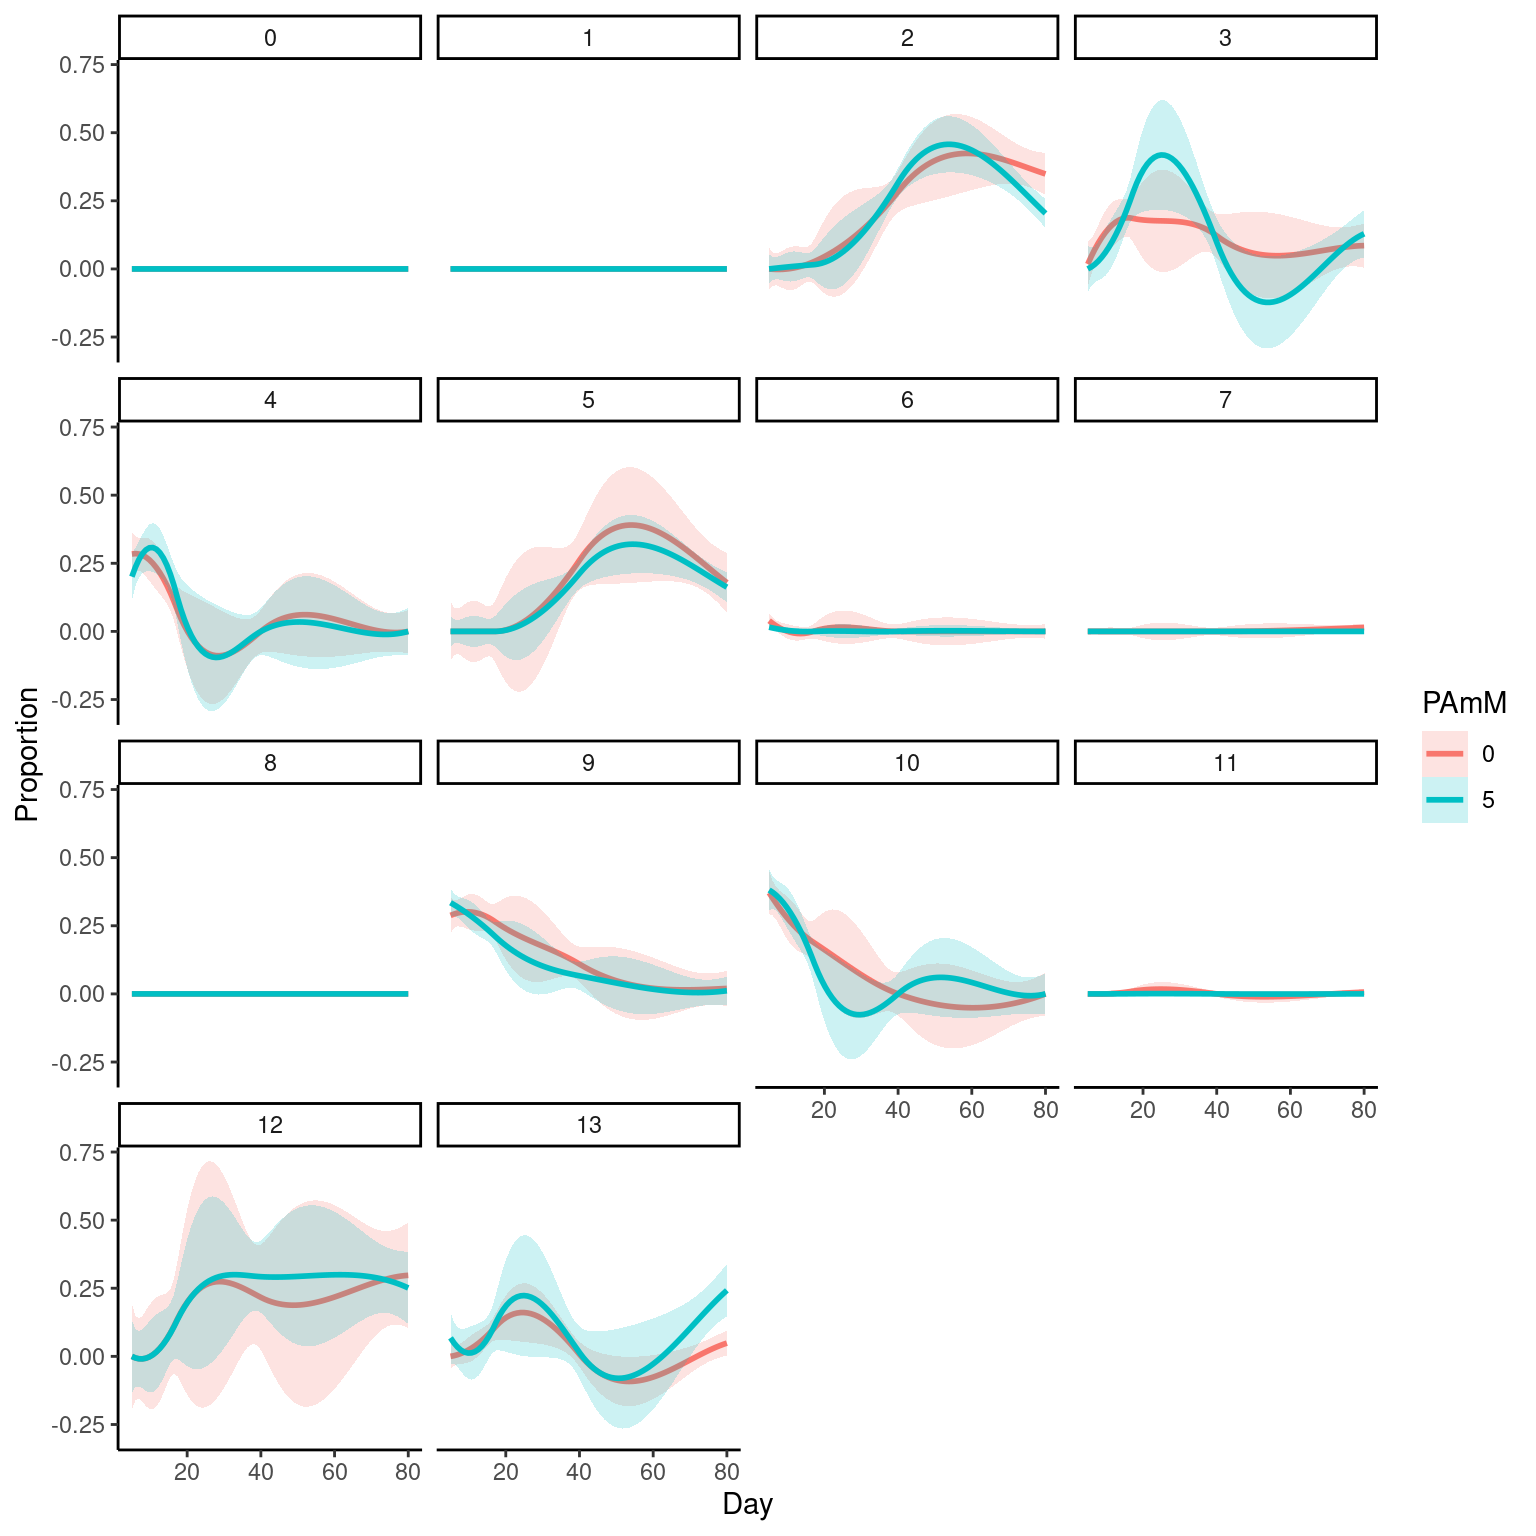
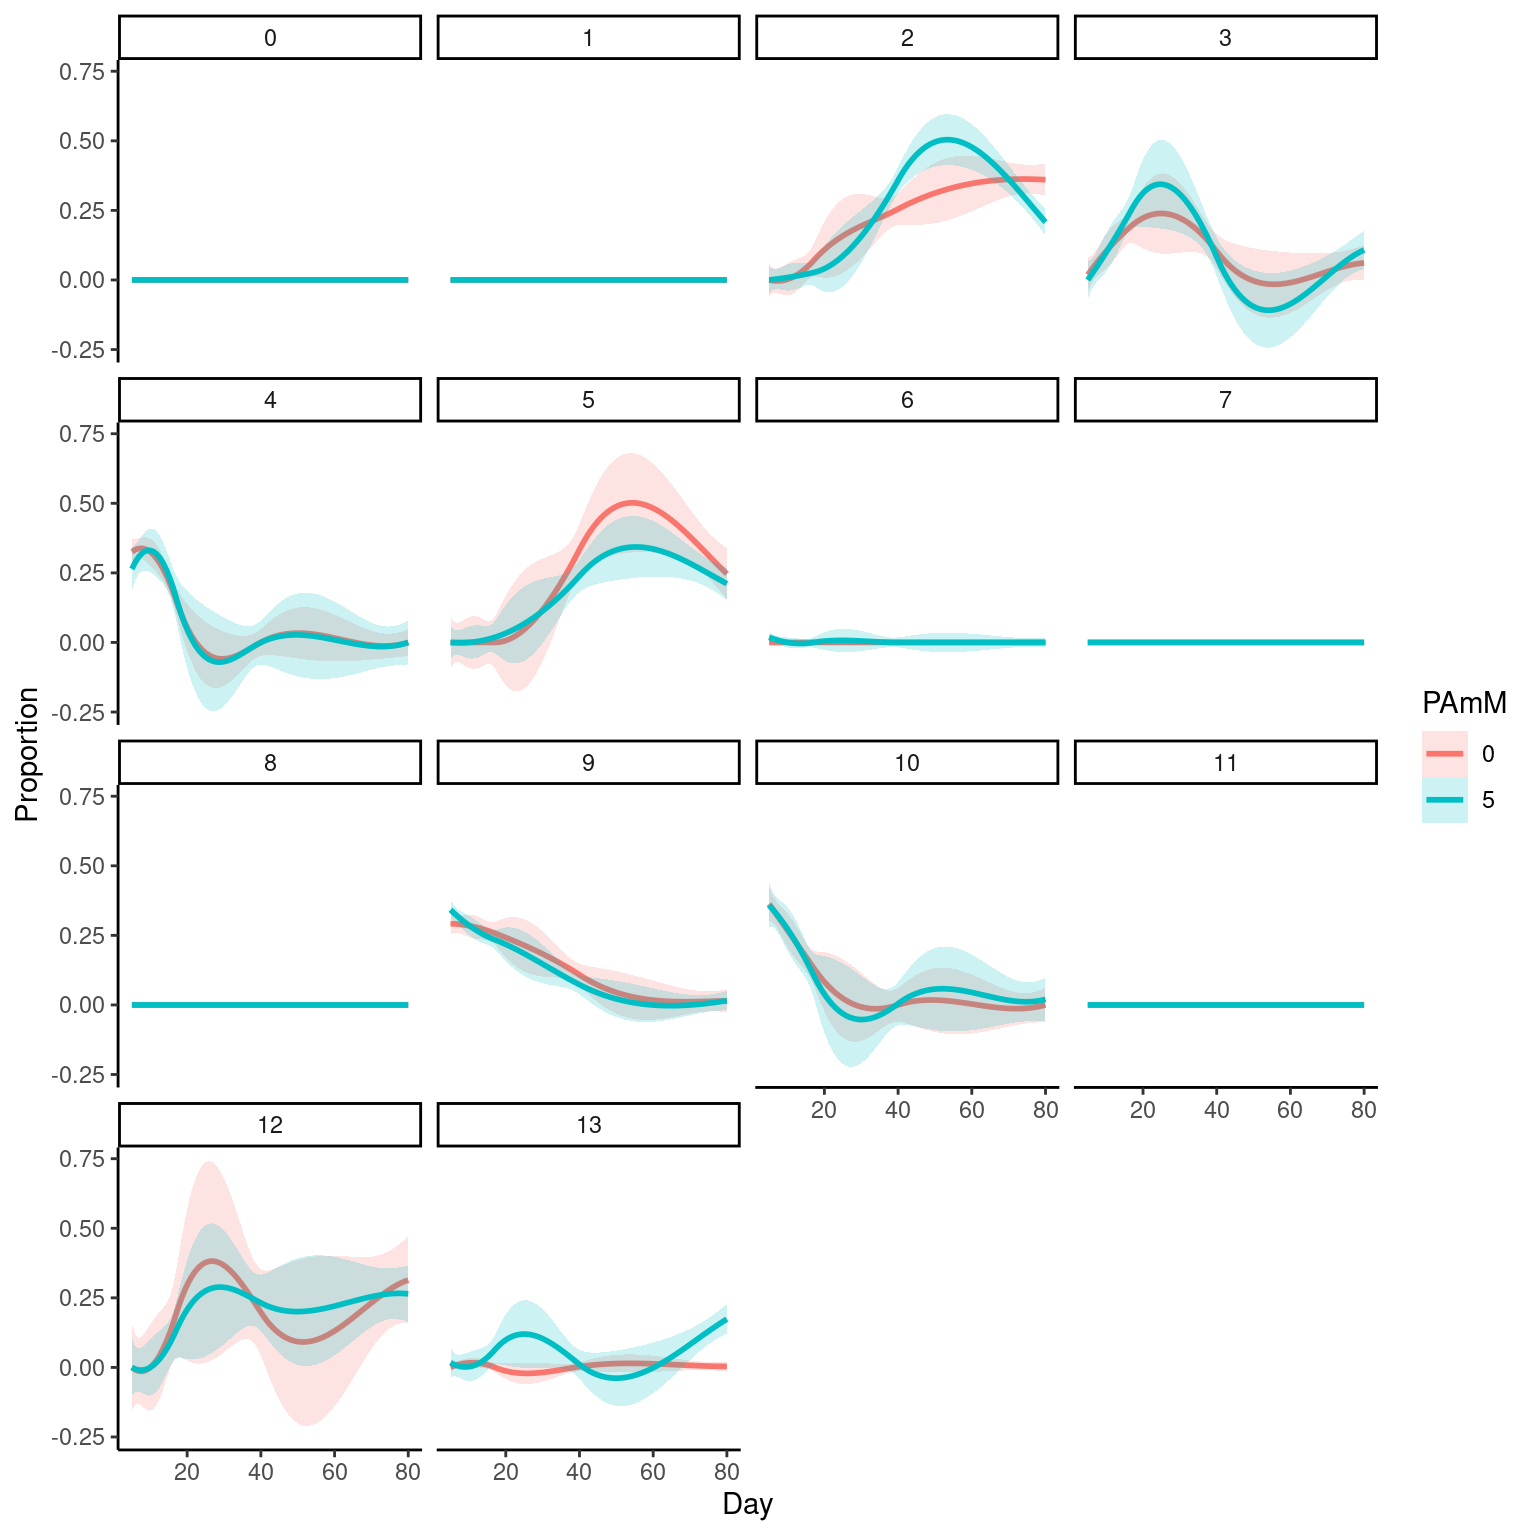
Build site.

diff --git a/docs/07_DeconVol_Bulk.html b/docs/07_DeconVol_Bulk.html
@@ -385,7 +385,7 @@ class="glyphicon glyphicon-ok text-success" aria-hidden="true"></span>
 <div class="tab-content">
 <div id="summary" class="tab-pane fade in active">
 <p>
-<strong>Last updated:</strong> 2024-01-12
+<strong>Last updated:</strong> 2024-01-13
 </p>
 <p>
 <strong>Checks:</strong> <span
@@ -516,15 +516,15 @@ project makes it easier to run your code on other machines.</p>
 <div class="panel panel-default">
 <div class="panel-heading">
 <p class="panel-title">
-<a data-toggle="collapse" data-parent="#workflowr-checks" href="#strongRepositoryversionstrongahrefhttpsgithubcomKJPMolgenLabscRNAPAQPRTtreefffce5728ec5eae82cabac96691a2e99edaacb5etargetblankfffce57a">
+<a data-toggle="collapse" data-parent="#workflowr-checks" href="#strongRepositoryversionstrongahrefhttpsgithubcomKJPMolgenLabscRNAPAQPRTtreeb85292521d66279ef5f3d71c97d957c935518ec5targetblankb852925a">
 <span class="glyphicon glyphicon-ok text-success"
 aria-hidden="true"></span> <strong>Repository version:</strong>
-<a href="https://github.com/KJPMolgenLab/scRNA_PA_QPRT/tree/fffce5728ec5eae82cabac96691a2e99edaacb5e" target="_blank">fffce57</a>
+<a href="https://github.com/KJPMolgenLab/scRNA_PA_QPRT/tree/b85292521d66279ef5f3d71c97d957c935518ec5" target="_blank">b852925</a>
 </a>
 </p>
 </div>
 <div
[2 lines of base64/hex data omitted]
 class="panel-collapse collapse">
 <div class="panel-body">
 <p>
@@ -534,7 +534,7 @@ reproducibility.
 </p>
 <p>
 The results in this page were generated with repository version
-<a href="https://github.com/KJPMolgenLab/scRNA_PA_QPRT/tree/fffce5728ec5eae82cabac96691a2e99edaacb5e" target="_blank">fffce57</a>.
+<a href="https://github.com/KJPMolgenLab/scRNA_PA_QPRT/tree/b85292521d66279ef5f3d71c97d957c935518ec5" target="_blank">b852925</a>.
 See the <em>Past versions</em> tab to see a history of the changes made
 to the R Markdown and HTML files.
 </p>
@@ -568,13 +568,12 @@ Untracked files:
     Untracked:  data/QC_dataClustered.filtTyped.rds
     Untracked:  data/QC_dataClustered.filtTypedTraj.rds
     Untracked:  data/QC_dataFinal.rds
-    Untracked:  data/Yoon/
+    Untracked:  data/Sample Allocation P2023-224-LEX-LB.txt
     Untracked:  data/alldata.rds
     Untracked:  output/07_Bulk_Deconv/
 
 Unstaged changes:
     Modified:   .gitignore
-    Modified:   analysis/05_Preprocessing_Bulk.Rmd
     Modified:   output/02_Clustering/Cluster_markers.xls
     Modified:   output/02_Clustering/Clusters_GO_termsCluster.xlsx
     Modified:   output/04_Biostat/Biostat_DEG_allcells.xlsx
@@ -612,6 +611,9 @@ Unstaged changes:
     Modified:   output/06_Bulk_DEX/06_Bulk_DEX_GO_results.xlsx
     Modified:   output/06_Bulk_DEX/06_Bulk_DEX_LFC_results.xlsx
     Modified:   output/06_Bulk_DEX/06_Bulk_DEX_Siggenes_boxplots.pdf
+    Modified:   output/06_Bulk_DEX/06_Bulk_DEX_top10_BP_GOplot.svg
+    Modified:   output/06_Bulk_DEX/06_Bulk_DEX_top10_TF_GOplot.svg
+    Modified:   output/06_Bulk_DEX/06_Bulk_DEX_top10all_GOplot.svg
     Modified:   workflowHelper.R
 
 </code></pre>
@@ -658,6 +660,23 @@ Message
 </tr>
 </thead>
 <tbody>
+<tr>
+<td>
+html
+</td>
+<td>
+<a href="https://rawcdn.githack.com/KJPMolgenLab/scRNA_PA_QPRT/e02ebd0ddcf19a27d4dec1dc58f59cd734560a5e/docs/07_DeconVol_Bulk.html" target="_blank">e02ebd0</a>
+</td>
+<td>
+Andreas Chiocchetti
+</td>
+<td>
+2024-01-12
+</td>
+<td>
+Build site.
+</td>
+</tr>
 <tr>
 <td>
 Rmd
@@ -1054,26 +1073,25 @@ test_time_by_PA = function(lmatrix, clustervar){
 
 testres = test_time_by_PA(lmatrix = long_prop_matrix, clustervar = &quot;Cluster&quot;)</code></pre>
 <pre><code>boundary (singular) fit: see help(&#39;isSingular&#39;)</code></pre>
-<pre><code>boundary (singular) fit: see help(&#39;isSingular&#39;)
-boundary (singular) fit: see help(&#39;isSingular&#39;)</code></pre>
+<pre><code>boundary (singular) fit: see help(&#39;isSingular&#39;)</code></pre>
 <pre class="r"><code>pvals=lapply(testres, function(x){x[4,&quot;pvalue&quot;]})
 Significances = data.frame(cluster = names(pvals), p.value = unlist(pvals,recursive = F))
 Significances</code></pre>
-<pre><code>   cluster            p.value
-5        5   0.81157846805976
-9        9  0.205056184288347
-8        8             no var
-1        1             no var
-0        0             no var
-3        3  0.827518461811875
-4        4  0.784802180841154
-7        7  0.104760347157305
-6        6  0.637523534486176
-2        2 0.0317204906304008
-12      12  0.676167660185283
-11      11  0.822157205928926
-10      10   0.88225559856036
-13      13 0.0115553161413814</code></pre>
+<pre><code>   cluster              p.value
+5        5    0.443625374639893
+9        9   0.0472236983847623
+8        8               no var
+1        1               no var
+0        0               no var
+3        3    0.875283132166054
+4        4    0.737247216506133
+7        7               no var
+6        6    0.400655510295367
+2        2   0.0010919890872763
+12      12    0.865579580390124
+11      11               no var
+10      10    0.861744364765872
+13      13 5.23788758476045e-06</code></pre>
 <pre class="r"><code>openxlsx2::write_xlsx(Significances, paste0(output,&quot;07_DeconVol_Bulk_StatTimecourseDiff_clusters.xslx&quot;))</code></pre>
 <pre class="r"><code>col=viridis::viridis(100)
 
@@ -1114,6 +1132,17 @@ Date
 </tr>
 </thead>
 <tbody>
+<tr>
+<td>
+<a href="https://github.com/KJPMolgenLab/scRNA_PA_QPRT/blob/e02ebd0ddcf19a27d4dec1dc58f59cd734560a5e/docs/figure/07_DeconVol_Bulk.Rmd/unnamed-chunk-6-1.png" target="_blank">e02ebd0</a>
+</td>
+<td>
+Andreas Chiocchetti
+</td>
+<td>
+2024-01-12
+</td>
+</tr>
 <tr>
 <td>
 <a href="https://github.com/KJPMolgenLab/scRNA_PA_QPRT/blob/7fc08ed424a3c84a1c0872aed6d4acda1cecfb7a/docs/figure/07_DeconVol_Bulk.Rmd/unnamed-chunk-6-1.png" target="_blank">7fc08ed</a>
@@ -1190,6 +1219,17 @@ Date
 <tbody>
 <tr>
 <td>
+<a href="https://github.com/KJPMolgenLab/scRNA_PA_QPRT/blob/e02ebd0ddcf19a27d4dec1dc58f59cd734560a5e/docs/figure/07_DeconVol_Bulk.Rmd/unnamed-chunk-8-1.png" target="_blank">e02ebd0</a>
+</td>
+<td>
+Andreas Chiocchetti
+</td>
+<td>
+2024-01-12
+</td>
+</tr>
+<tr>
+<td>
 <a href="https://github.com/KJPMolgenLab/scRNA_PA_QPRT/blob/7fc08ed424a3c84a1c0872aed6d4acda1cecfb7a/docs/figure/07_DeconVol_Bulk.Rmd/unnamed-chunk-8-1.png" target="_blank">7fc08ed</a>
 </td>
 <td>
@@ -1212,28 +1252,27 @@ class="section level2">
 <h2>testing of time differences per cluster</h2>
 <pre class="r"><code>testres = test_time_by_PA(lmatrix = long_prop_matrix, clustervar = &quot;Kn.Cluster&quot;)</code></pre>
 <pre><code>boundary (singular) fit: see help(&#39;isSingular&#39;)
-boundary (singular) fit: see help(&#39;isSingular&#39;)
 boundary (singular) fit: see help(&#39;isSingular&#39;)</code></pre>
 <pre class="r"><code>pvals=lapply(testres, function(x){x[4,&quot;pvalue&quot;]})
 Significances = data.frame(cluster = names(pvals), p.value = unlist(pvals,recursive = F))
 Significances</code></pre>
-<pre><code>              cluster            p.value
-oRG               oRG  0.104760347157229
-L23               L23             no var
-INP               INP             no var
-CGE_LGE_IN CGE_LGE_IN             no var
-LGE_IN         LGE_IN             no var
-L6_CThPN     L6_CThPN  0.980490539524949
-ccRG             ccRG  0.709112408918209
-IP                 IP  0.984668137977308
-RG                 RG  0.185853271644573
-ccvRG           ccvRG  0.165327881255527
-Astrocytes Astrocytes  0.327704613662938
-L56               L56 0.0767270518672607
-vRG               vRG             no var
-CGE_IN         CGE_IN  0.719537052612447
-L4                 L4             no var
-mesenchyme mesenchyme  0.829581351678757</code></pre>
+<pre><code>              cluster           p.value
+oRG               oRG            no var
+L23               L23            no var
+INP               INP            no var
+CGE_LGE_IN CGE_LGE_IN            no var
+LGE_IN         LGE_IN            no var
+L6_CThPN     L6_CThPN 0.578010574658149
+ccRG             ccRG 0.893438324788172
+IP                 IP 0.892557972215078
+RG                 RG            no var
+ccvRG           ccvRG 0.621800990553103
+Astrocytes Astrocytes 0.270534861998907
+L56               L56 0.130146259243014
+vRG               vRG            no var
+CGE_IN         CGE_IN 0.924070944586973
+L4                 L4            no var
+mesenchyme mesenchyme 0.458066792449976</code></pre>
 <pre class="r"><code>openxlsx2::write_xlsx(Significances, paste0(output,&quot;07_DeconVol_Bulk_StatTimecourseDiff_KnCelltypes.xslx&quot;))</code></pre>
 <pre class="r"><code>svg(paste0(output, &quot;07_DeconVol_Bulk_propHeatmap_Knoblichclusters.svg&quot;))
 gplots::heatmap.2(prop.matrix.knblich, scale = &quot;col&quot;, 
@@ -1252,6 +1291,43 @@ Colv = F, trace = &quot;none&quot;, density.info = &quot;none&quot;, col = col, 
 c(12, : Discrepancy: Colv is FALSE, while dendrogram is `both&#39;. Omitting column
 dendogram.</code></pre>
 <p><img src="figure/07_DeconVol_Bulk.Rmd/unnamed-chunk-10-1.png" width="576" style="display: block; margin: auto;" /></p>
+<p>
+<button type="button" class="btn btn-default btn-xs btn-workflowr btn-workflowr-fig" data-toggle="collapse" data-target="#fig-unnamed-chunk-10-1">
+Past versions of unnamed-chunk-10-1.png
+</button>
+</p>
+<div id="fig-unnamed-chunk-10-1" class="collapse">
+<div class="table-responsive">
+<table class="table table-condensed table-hover">
+<thead>
+<tr>
+<th>
+Version
+</th>
+<th>
+Author
+</th>
+<th>
+Date
+</th>
+</tr>
+</thead>
+<tbody>
+<tr>
+<td>
+<a href="https://github.com/KJPMolgenLab/scRNA_PA_QPRT/blob/e02ebd0ddcf19a27d4dec1dc58f59cd734560a5e/docs/figure/07_DeconVol_Bulk.Rmd/unnamed-chunk-10-1.png" target="_blank">e02ebd0</a>
+</td>
+<td>
+Andreas Chiocchetti
+</td>
+<td>
+2024-01-12
+</td>
+</tr>
+</tbody>
+</table>
+</div>
+</div>
 <br>
 <p>
 <button type="button" class="btn btn-default btn-workflowr btn-workflowr-sessioninfo" data-toggle="collapse" data-target="#workflowr-sessioninfo" style="display: block;">
